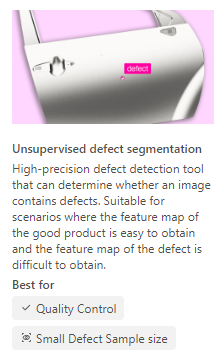
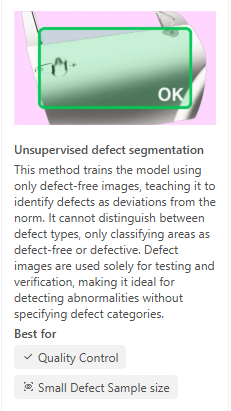
update .8

diff --git a/docs/source/conf.py b/docs/source/conf.py
@@ -6,8 +6,8 @@ project = 'DaoAI World User Manual'
 copyright = '2021-2024 DaoAI Robotics Inc.'
 author = 'DaoAI'
 
-release = '2024.7'
-version = '2024.7.1'
+release = '2024.8'
+version = '2024.8.0'
 
 # -- General configuration
 

diff --git a/docs/source/model/ano/index.rst b/docs/source/model/ano/index.rst
@@ -1,7 +1,7 @@
 Unsupervised Defect Segmentation
 ==========================================
 
-**Unsupervised Defect Segmentation** can identify whether an object is in an abnormal state(NG), such as damage or deformation.
+**Unsupervised Defect Segmentation** is a model trained on normal data that can identify whether an object is in an abnormal (NG) state, such as damage, deformation, etc.  
 
     .. image:: Images/ano.png
         :scale: 100%
@@ -10,55 +10,116 @@ Unsupervised Defect Segmentation
 
         <div style="position: relative; padding-bottom: 0.25%; height: 0; overflow: hidden; max-width: 80%; height: auto;">
             <video width="80%" height="auto" controls>
-                <source src="http://docs.welinkirt.com/static/videos/dw_ano-v6.mp4" type="video/mp4">
+                <source src="http://docs.welinkirt.com/static/videos/dw_ano-v8.mp4" type="video/mp4">
             </video>
         </div>
 
 |
 
-After completing the model annotations, refer to the video in the :ref:`Training` section to create dataset versions and train/deploy the model.
+After completing model training, refer to the video in the :ref:`Training` section to create a dataset version and deploy the model.
 
-Use Case Scenarios
+Use Cases
+---------------------
+
+**Unsupervised Defect Segmentation** is suitable for the following scenarios:
+
+1. **Single Object**: The dataset contains only one type of object, and its position must remain relatively fixed.
+2. **Defect Detection**: The object can be in either a normal or abnormal (NG) state, enabling the detection of changes such as damage or deformation.
+
+Model Detection Modes
 ------------------------------------------
 
-**Unsupervised Defect Segmentation** works on a single object. That is, the dataset should contain only one type of object, and the object's position must remain relatively fixed. The object will be classified as either normal or abnormal.
+The new **Unsupervised Defect Segmentation** model supports four detection modes, which can be selected based on specific requirements:
 
-**Unsupervised Defect Segmentation** will learn to identify whether an object is in an abnormal state, using polygon annotations to mark the abnormal regions.
+1. **Image-Level - Whole Image Detection**  
+   - Analyzes the entire image to determine if defects are present.
+   - Suitable for scenarios where precise localization is not required.
 
-Annotation Method
-------------------------
+2. **Image-Level - Region Detection**  
+   - Analyzes specific regions of the image to determine if defects exist within the target areas.
+   - Suitable for scenarios with fixed target regions.
 
-If a pre-trained model exists, you can use the assisted annotation tool, allowing the deep learning model to help with annotations. You can then verify and correct the annotations as needed.
-    
-    .. image:: Images/suppor_anno.png
-        :scale: 100%
+3. **Pixel-Level - Whole Image Detection**  
+   - Analyzes each pixel in the image and highlights abnormal regions.
+   - Suitable for scenarios requiring precise localization of defect areas.
 
-If the object has no defects, label it as good.
+4. **Pixel-Level - Region Detection**  
+   - Analyzes each pixel within specific regions of the image and highlights abnormal areas.
+   - Suitable for scenarios requiring precise annotation of target areas.
 
-    .. image:: Images/anoAnno2.png
-        :scale: 100%
+Annotation Methods
+----------------
 
-If the object has defects, mark it as abnormal. Use the polygon tool or smart polygon to annotate the outline of the defect area.
+Annotation methods vary depending on the model detection mode, as described below:  
 
-    .. image:: Images/anoAnno1.png
-        :scale: 100%
+1. **Image-Level - Whole Image Detection**  
+   Annotate each image as either **OK** (normal) or **NG** (abnormal).  
+
+   .. image:: Images/img_whole_anno.png  
+        :scale: 60%  
+
+   Supports batch selection of images for unified annotation as **OK** or **NG**.  
+
+   .. image:: Images/batch_annotate.png  
+        :scale: 60%  
+
+2. **Image-Level - Region Detection**  
+   First, define a reference image and select the detection region by drawing a bounding box, then save it as a template. Since unsupervised detection requires objects to remain relatively fixed, the detection regions in all images must cover the same parts.  
+
+   .. image:: Images/img_region_anno.png  
+        :scale: 60%  
+
+   Annotate by clicking on the detection regions and marking them as **OK** or **NG**.  
+
+   .. image:: Images/img_region_anno.png  
+        :scale: 60%  
+
+3. **Pixel-Level - Whole Image Detection**  
+   Use intelligent annotation tools or polygon tools to outline the defect regions.  
+
+   .. image:: Images/pixel_whole_anno.png  
+        :scale: 60%  
+
+4. **Pixel-Level - Region Detection**  
+   First, define a reference image and select the detection region by drawing a bounding box, then save it as a template.  
+
+   .. image:: Images/pixel_region_anno.png  
+        :scale: 60%  
+
+   Use intelligent annotation tools or polygon tools to outline the defect regions within the detection area. If there are no defects, mark the image as defect-free.  
+
+   .. image:: Images/pixel_region_anno2.png  
+        :scale: 60%  
 
 Notes
 ------------
 
-1. In an **Unsupervised Defect Segmentation** project, there should only be **one label** used to annotate the abnormal areas on an object.
+1. **Data Consistency**  
+   Normal images should not include any defect annotations, as this may lead to training failures or suboptimal results.
 
-2. Objects annotated as **good** should not include any defect region labels. Otherwise, it may lead to unsatisfactory training results or even training failure.
+2. **Multiple Defects Support**  
+   If an object has multiple defects, you can annotate each defect with a separate region.
 
-.. note::
+3. **Data Ratio**  
+   - **Normal Data Priority**: The number of normal images in the training set should be greater than or equal to the number of defect-free images.  
 
-    1. During the training process of an Unsupervised Defect Segmentation project, ensure that the number of images assigned to the training set is less than or equal to the total number of defect-free images in the dataset. Otherwise, training may fail. Also, having too few defect images in the dataset may result in poor training outcomes.
-    
-    2. Unlike other projects, Unsupervised Defect Segmentation does not apply any data augmentation options by default.
+4. **Default Configuration**  
+   The unsupervised defect segmentation model does not apply any data augmentation options by default during training.
+
+5. **Built-in Image Splitting for Training**  
+   During whole image detection, the training mode can be set to **Normal** or **High Precision**. High precision mode splits images into 512×512 or 256×256 resolutions for training, increasing detection time but significantly improving model accuracy.
+
+.. note::  
+
+    - The quality of defect-free data is crucial for unsupervised models; ensure that normal data is accurately annotated.  
+    - Model performance depends on a reasonable ratio of normal and abnormal images.  
 
 Practice
-----------
+--------
 
-Download  `practice data <https://daoairoboticsinc-my.sharepoint.com/:f:/g/personal/nrd_daoai_com/EkNGNFG9C1ZCkejjwLZ4WOsBUQuhkn6apK4MSej2z1DfQA?e=ZOoc8v>`_ with anomaly_detection.zip.
+Download the practice data `anomaly_detection.zip` from the following link:  
+`Practice Data <https://daoairoboticsinc-my.sharepoint.com/:f:/g/personal/nrd_daoai_com/EkNGNFG9C1ZCkejjwLZ4WOsBUQuhkn6apK4MSej2z1DfQA?e=ZOoc8v>`_  
 
-After unzipping, you will get 11 images and annotation (.json) files. Upload only the images to DaoAI World for annotation practice. Later, you can upload both images and annotation files to compare the results.
+After extraction, you will obtain 11 images and their annotation files (.json).  
+- Upload the images to DaoAI World for annotation practice.  
+- After completing the annotations, upload the images and annotation files together to validate the model training results.

diff --git a/docs/source/introduce/quick_start/release-notes.rst b/docs/source/introduce/quick_start/release-notes.rst
@@ -7,21 +7,6 @@ Release Notes
 Version 2.24.7.0 Updates:
 ------------------------------------
 
-- Brand New Project Create page.
-- Added Demo Projects for guidance and demo purpose.
-- Image Display Setting allows users to adjust image display settings during annotation to improve annotation efficiency.
-- View annotations and detection results at the same time allowing for better distinction between the two.
-- New Positioning project for detecting objects in images and marking their positions, making it suitable for various industrial applications such as robotic assembly.
-- New Presence Detection project for detecting the installation status of parts by comparing the image with a reference image. It is commonly used for detecting misassembled or missing parts.
-- New classification project annotation image as background image function, indicating that there are no other objects in the image, only the background.
-- New OCR dictionary function which allows focus on the language of text recognition projects. Users can select the desired language for recognition, improving efficiency and accuracy.
-- New decision criteria function, allowing users to select the criteria that best align with the model's requirements. This helps to better filter detection results during model inference.
-- Image Argumentation Times allowing users to adjust the number of image augmentations to create more training samples. Larger versions will take longer to train but typically result in better model performance.
-- Train from Previous Checkpoint feature, it is recommended to start from a previous training run to speed up the training process and improve accuracy. If user have successfully trained a model on this project before, this option is the best choice.
-- Inference Information Display shows inference time and the type of GPU used for training. This helps users better understand the recognition speed.
+- Added :ref:`Training Status` , where you can view the status of all training tasks.
+- Updated :ref:`Unsupervised Defect Detection` task.
 
-Detailed information can be viewed in the Change Log at the top right corner of our website.
-
-.. image:: images/changelog.png
-    :width: 800
-    :align: center

diff --git a/docs/source/train/train_model/index.rst b/docs/source/train/train_model/index.rst
@@ -458,3 +458,13 @@ The answer depends on the project requirements: Are there strict time requiremen
 
 #. When the project has strict requirements on recognition time and allows very short recognition times, you should choose the fast mode.
 #. When the project has high accuracy requirements and allows very little tolerance, you should choose the accurate mode.
+
+
+Training Status
+------------------------------------
+
+On the **Training Status** page, you can view the history and current status of all training tasks. The page displays detailed information for each training task, including training progress, status, start time, and completion time, making it easier to track and manage the model training process.
+
+.. image:: images/train_stat.png
+    :scale: 80%
+    :align: center
